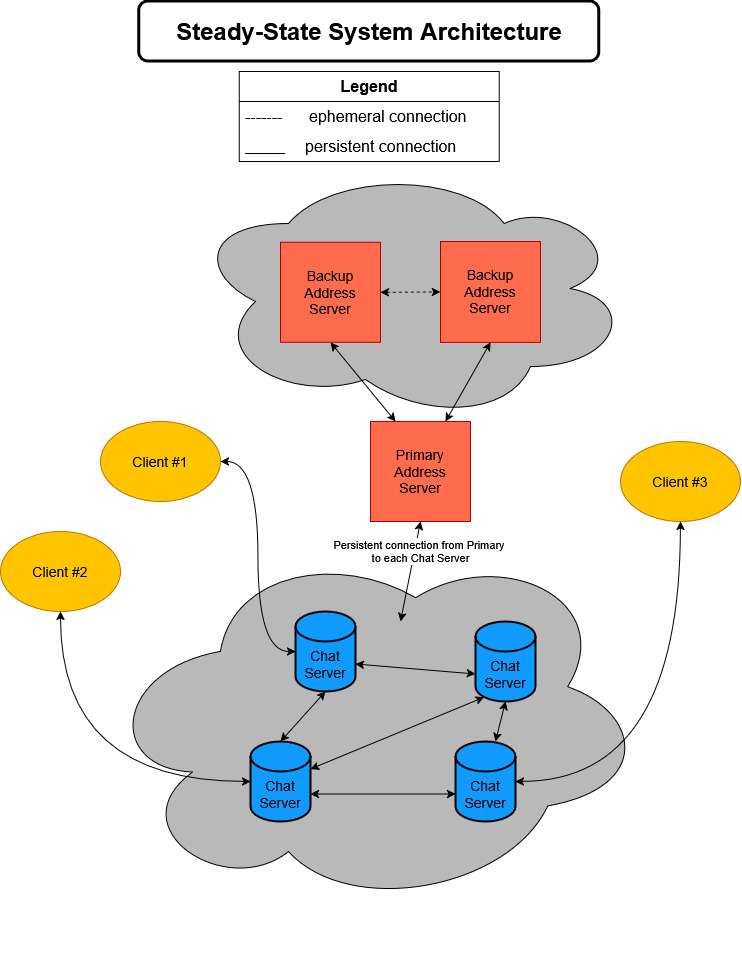
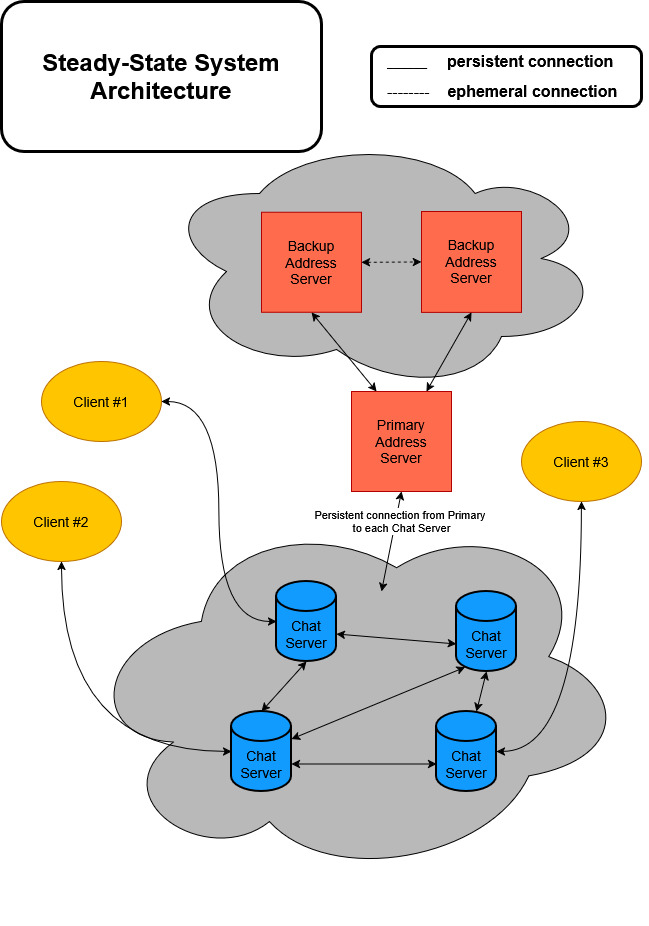
update: resized system architecture diagram
- diagram also has slight style updates

diff --git a/chatserver/src/main/java/io/github/cpsc559/team16/chatserver/AddressingServerHandler.java b/chatserver/src/main/java/io/github/cpsc559/team16/chatserver/AddressingServerHandler.java
@@ -171,7 +171,7 @@ class AddressingServerHandler implements ConnectionHandler {
             if (payload instanceof AddrServerRecord record) {
                 String host = record.getHostAddress();
                 int port = record.getChatServerPort();
-                System.out.println("New Adressing Server Primart" + host + " " + port);
+                System.out.println("New Adressing Server Primary" + host + " " + port);
                 // TODO: Synchronize with Primary in much the same way that Replicas do!
                 debug(DEBUG_BASIC, "Received AddrServerRecord from host: " + host + ", port: " + port);
             } else {

diff --git a/README.md b/README.md
@@ -17,20 +17,25 @@ messaging across several chat servers](docs/images/chat_log_example.jpg)
 
 ---------------------------------------------------------
 
-This project originated as a five-person university group project. I was solely responsible for the
-Addressing Server module and the inter-process communication protocol — including the full
-messaging layer, service discovery, replica synchronization, and consistency guarantees.
-The original leader election logic was implemented by a teammate. My other partners
-implemented the Chat Server and Client modules.
+
+This project originated as a five-person university group project for CPSC 559
+(Distributed Systems). My core responsibilities were:
+
+- The entire Addressing Server module (excluding LeaderElectionManager)
+- The inter-process communication protocol — including the full messaging layer,
+  service discovery, replica synchronization, and consistency guarantees
+- The common module (all classes except ChatLog and ChatLogUpdate)
+
+My teammates implemented the Chat Server and Client modules, as well as the original 
+LeaderElectionManager class (which I substantially reworked in this fork).
 
 After the course ended, I branched the repository and personally invested 60+ hours
 stabilizing the system — resolving fundamental bugs in leader election and failover recovery, 
 while also making significant improvements to the Chat Server and Client modules.
 
 The core architecture and feature set are unchanged from before,
-as my goal was to deliver a version that works correctly and reliably,
-fully realizing the original design.
-
+as my goal was to fully realize the original design by
+delivering a version that works correctly and reliably.
 
 
 ### Overview
@@ -79,7 +84,7 @@ when a disconnection occurs.
 
 ![Steady-state diagram showing: four Chat Servers, 
 three Addressing Servers (one primary) and three clients connected 
-via the network layer](docs/images/steady-state_system_architecture_445x573.jpg)
+via the network layer](docs/images/steady-state_system_architecture_487x695.jpg)
 
 ### Key Technical Features
 
